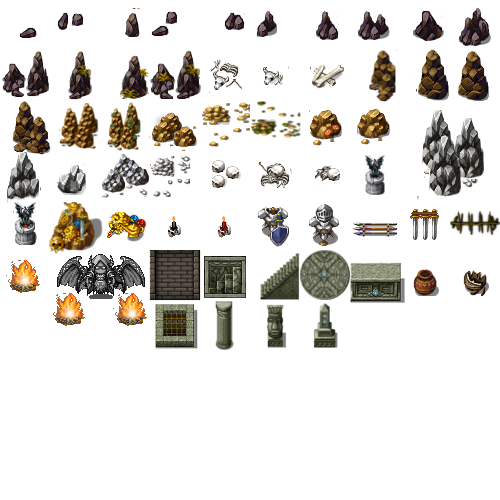
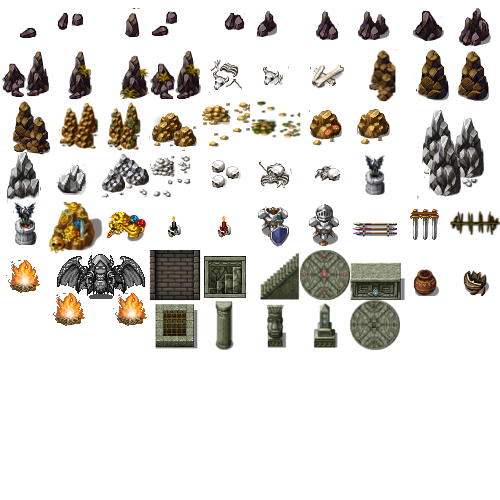
Added disabled summoning circle graphic

Changed region(s): [[0.69, 0.6, 0.81, 0.72]]

diff --git a/Divine Right/Objects/Graphics/SpriteManager.cs b/Divine Right/Objects/Graphics/SpriteManager.cs
@@ -626,6 +626,7 @@ namespace DRObjects.Graphics
             localSprites[(int)LocalSpriteName.PILLAR] = new SpriteData(DUNGEON, new Rectangle(200, 300, 50, 50));
             localSprites[(int)LocalSpriteName.PILLAR_2] = new SpriteData(DUNGEON, new Rectangle(250, 300, 50, 50));
             localSprites[(int)LocalSpriteName.PILLAR_3] = new SpriteData(DUNGEON, new Rectangle(300, 300, 50, 50));
+            localSprites[(int)LocalSpriteName.SUMMONING_CIRCLE_OFF] = new SpriteData(DUNGEON, new Rectangle(350, 300, 50, 50));
 
             localSprites[(int)LocalSpriteName.ENEMY_SKELETON] = new SpriteData(ENEMIES, new Rectangle(0, 0, 50, 50));
             localSprites[(int)LocalSpriteName.ENEMY_ORC_CIV] = new SpriteData(ENEMIES, new Rectangle(50, 0, 50, 50));

diff --git a/Divine Right/Objects/Graphics/LocalSpriteName.cs b/Divine Right/Objects/Graphics/LocalSpriteName.cs
@@ -646,6 +646,7 @@ namespace DRObjects.Graphics
         ZOMBIE_4,
         ZOMBIE_5,
         ZOMBIE_6,
+        SUMMONING_CIRCLE_OFF,
 
     }
 }
